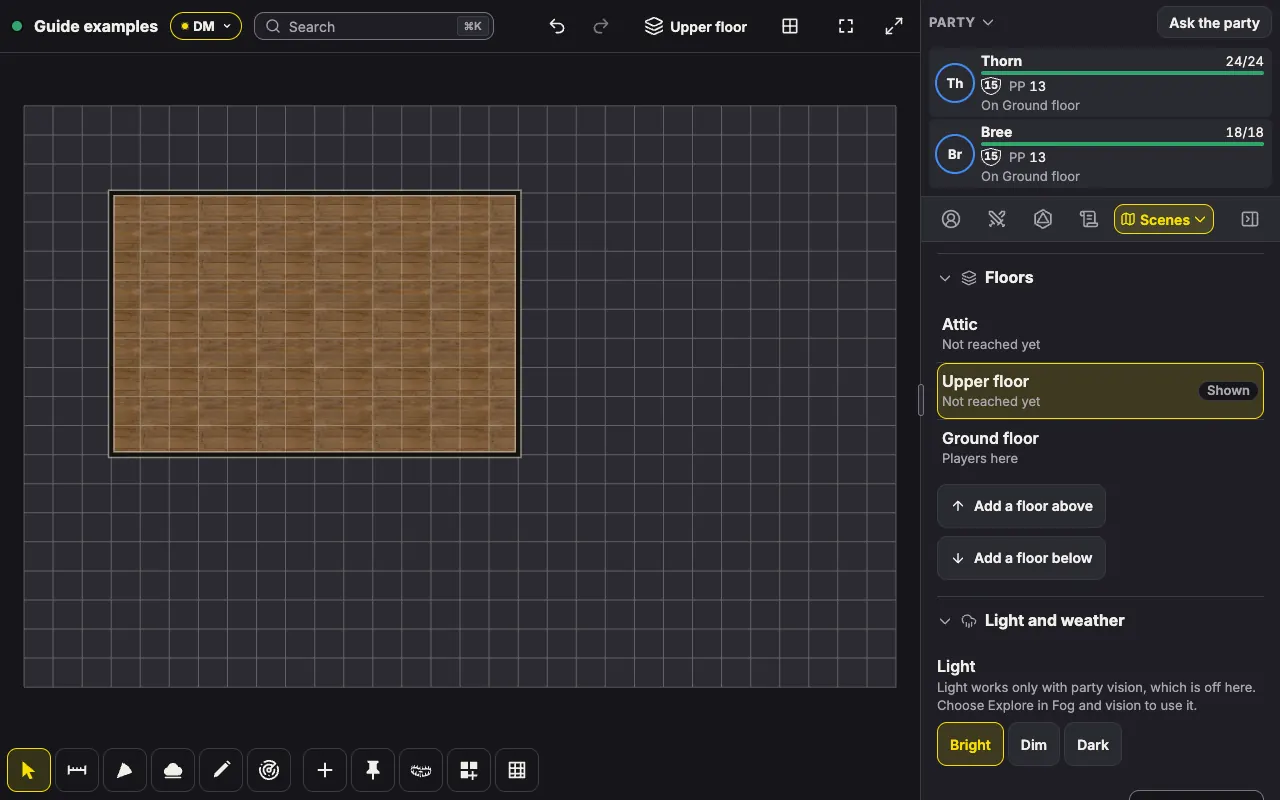
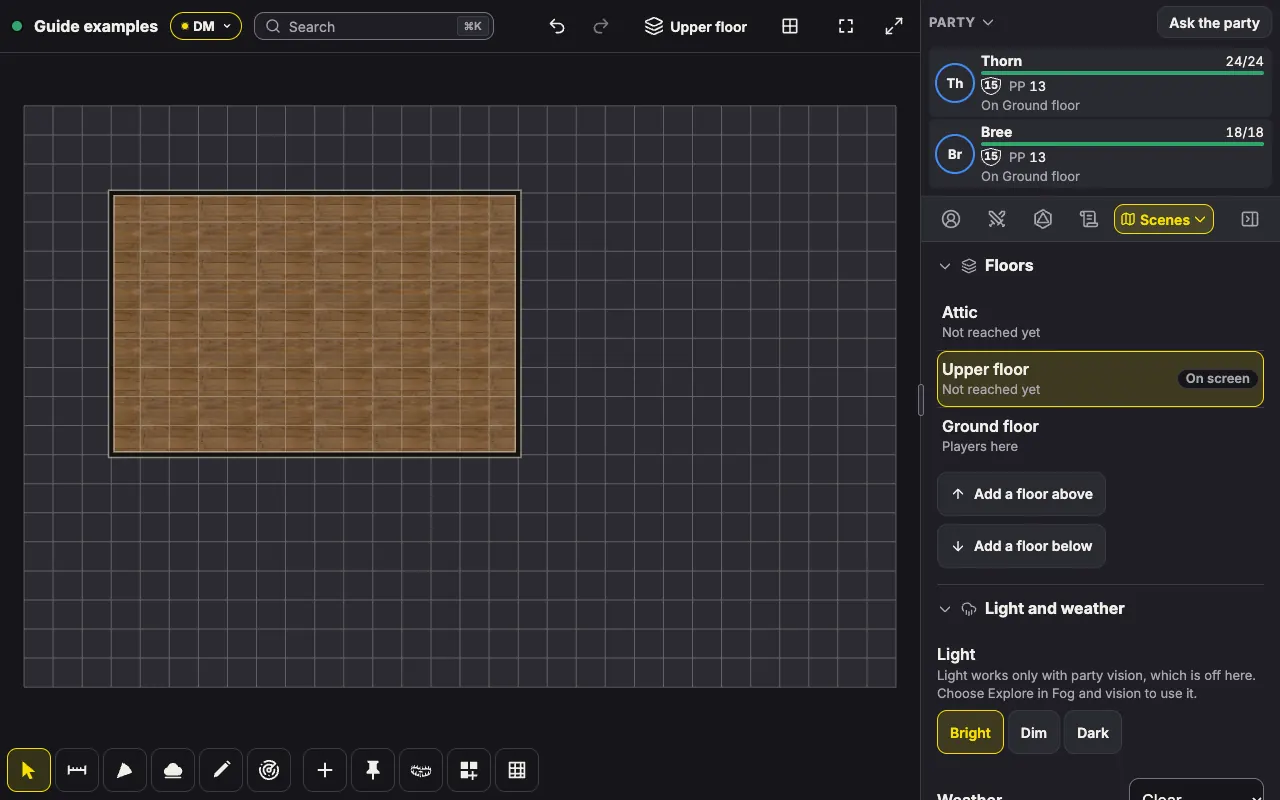
docs(guide): several floors set apart from the builder's floor, the on screen tag, go to this floor, and hide on a scene in preparation

Changed region(s): [[0.7188, 0.3125, 1.0, 0.7812], [0.7188, 0.8125, 1.0, 1.0], [0.875, 0.9688, 0.9375, 1.0]]

diff --git a/docs/dm-guide.md b/docs/dm-guide.md
@@ -257,19 +257,19 @@ Feet per square and the rule for diagonals aren't scene settings: they apply to 
 
 ## Several floors
 
-A tower, a keep or a cellar under an inn is one place on several levels, and a scene can hold it as several floors. Each floor has its own map, build, fog, light, weather, tokens and traps, and all of them share one place in the Scenes list, one grid and one budget of 500 tokens and 200 areas. A scene holds up to 8 floors. Reach for floors when the party splits between levels, or when a fight crosses a staircase and everyone should stay in one tracker. A party that always moves together is simpler as separate scenes.
+A tower, a keep or a cellar under an inn is one place on several levels, and a scene can hold it as several floors. These floors are the levels of a building, not the floor the Map builder paints, such as Stone or Wood, which is the ground of one map. Each floor has its own map, build, fog, light, weather, tokens and traps, and all of them share one place in the Scenes list, one grid and one budget of 500 tokens and 200 areas. A scene holds up to 8 floors. Reach for floors when the party splits between levels, or when a fight crosses a staircase and everyone should stay in one tracker. A party that always moves together is simpler as separate scenes.
 
 ![The Floors menu open on the DM's screen, on a scene named Tower: Attic and Upper floor not reached yet, Ground floor with the players there, Upper floor checked as the floor on screen, and Floors… under the list. The party panel says On Ground floor for both characters.](dm-guide/floors-menu.webp)
 
 ### Building floors
 
-**Floors** is the first group in the scene's settings, under **This scene**. It lists the floors top first, and each row says where the players stand: **Players here** on the floor they start on and on any floor an unhidden party member stands on, **Reached** on a floor they have been on or you have shown them, and **Not reached yet** on the rest. **Add a floor above** and **Add a floor below** put a new floor beside the floor on your screen. The new floor copies that floor's size, background, grid, light and what players see, and starts with no map, weather or scene sound, so you can build it from nothing. The first floor you add also names the scene's own floor **Ground floor**.
+**Floors** is the first group in the scene's settings, under **This scene**. It lists the floors top first, and each row says where the players stand: **Players here** on the floor they start on and on any floor an unhidden party member stands on, **Reached** on a floor they have been on or you have shown them, and **Not reached yet** on the rest. The floor on your screen wears an **On screen** tag. **Add a floor above** and **Add a floor below** put a new floor beside the floor on your screen. The new floor copies that floor's size, background, grid, light and what players see, and starts with no map, weather or scene sound, so you can build it from nothing. The first floor you add also names the scene's own floor **Ground floor**.
 
-![The Floors group open on the Tower: Attic, Upper floor with its Shown mark, and Ground floor with the players, then Add a floor above and Add a floor below, and Light and weather under them.](dm-guide/floors-settings.webp)
+![The Floors group open on the Tower: Attic, Upper floor with its On screen tag, and Ground floor with the players, then Add a floor above and Add a floor below, and Light and weather under them.](dm-guide/floors-settings.webp)
 
-Tap a floor to open its page. It sets the floor's **Floor name**, its **Height above the floor below** (5 to 50 ft in steps of 5, and 10 by default, which the stairs and ladders to come will read), **Show to players** or **Hide from players**, **Move up** and **Move down** in the stack, **Show this floor** on your own screen and **Remove floor**, which asks for a second tap and takes everything on that floor with it. Every other group in the settings, Light and weather, Fog and vision, Map and grid and the rest, sets the floor on your screen, and a line under **This scene** says which: "The groups below set Upper floor."
+Tap a floor to open its page. It sets the floor's **Floor name**, its **Height above the floor below** (5 to 50 ft in steps of 5, and 10 by default, which the stairs and ladders to come will read), **Show to players** or **Hide from players**, **Move up** and **Move down** in the stack, **Go to this floor** to put it on your own screen, and **Remove floor**, which asks for a second tap and takes everything on that floor with it. Every other group in the settings, Light and weather, Fog and vision, Map and grid and the rest, sets the floor on your screen, and a line under **This scene** says which: "The groups below set Upper floor."
 
-Some buttons stay off, with the reason under them. **Remove floor** is off on the floor the scene was made with ("Delete Tower from its menu to remove every floor"), on the floor the players start on and while a party member stands on the floor. **Hide from players** is off there too, since it only exists to close a floor you opened by mistake. The scene's grid shape is fixed while it has more than one floor, so every floor stays square for square with the others.
+Some buttons stay off, with the reason under them. **Remove floor** is off on the floor the scene was made with ("Delete Tower from its menu to remove every floor"), on the floor the players start on and while a party member stands on the floor. **Hide from players** is off on the start floor too, and while a party member stands on a floor of the players' scene, since it only exists to close a floor you opened by mistake. A party member on a scene you are preparing in private opens nothing, so there Hide stays on. The scene's grid shape is fixed while it has more than one floor, so every floor stays square for square with the others.
 
 In the Scenes list the tower is one row, "Tower · 3 floors". **Delete** reads "Delete Tower and its 3 floors", **Duplicate** copies them all, and **Move players here** starts the players on the floor you are looking at.
 
@@ -291,7 +291,7 @@ If the move would bring a party member onto a floor the players have not reached
 
 A player's device receives only the floors it holds: the floors of the players' scene that the party has reached, and any floor where a creature the player owns stands. A floor the players have not reached sends nothing, not its name, its map or what stands on it, so an attic you are still building is safe to prepare while the party fights downstairs. The players see their floors numbered among themselves, so an unreached floor leaves no gap. Traps go off by themselves only on floors the players have reached.
 
-The DM menu knows floors too. **Move players here** and **Show players** name the floor on your screen, such as "Tower · Upper floor". On another floor of the players' scene, **Bring everyone here** sits beside **Move players here**. It is off while the players hold no such floor, with "Players haven't reached Attic, so their maps stay." under it. Each floor has its own fog, so the fog tools work on the floor on your screen. In the isometric view, the floor on screen shows alone, and **Export as image** names the file for it, such as `tower-upper-floor-30x20-70px.png`.
+The DM menu knows floors too. **Move players here** and **Show players** name the floor on your screen, such as "Tower · Upper floor". On another floor of the players' scene, **Bring everyone here** sits beside **Move players here**. It is off on a floor the players have not reached, with "Players haven't reached Attic, so their maps stay." under it. Each floor has its own fog, so the fog tools work on the floor on your screen. In the isometric view, the floor on screen shows alone, and **Export as image** names the file for it, such as `tower-upper-floor-30x20-70px.png`.
 
 > [!NOTE]
 > Sight and light stay on their floor. A party cannot see down a stairwell, and a light on one floor does not reach the floor above it.
